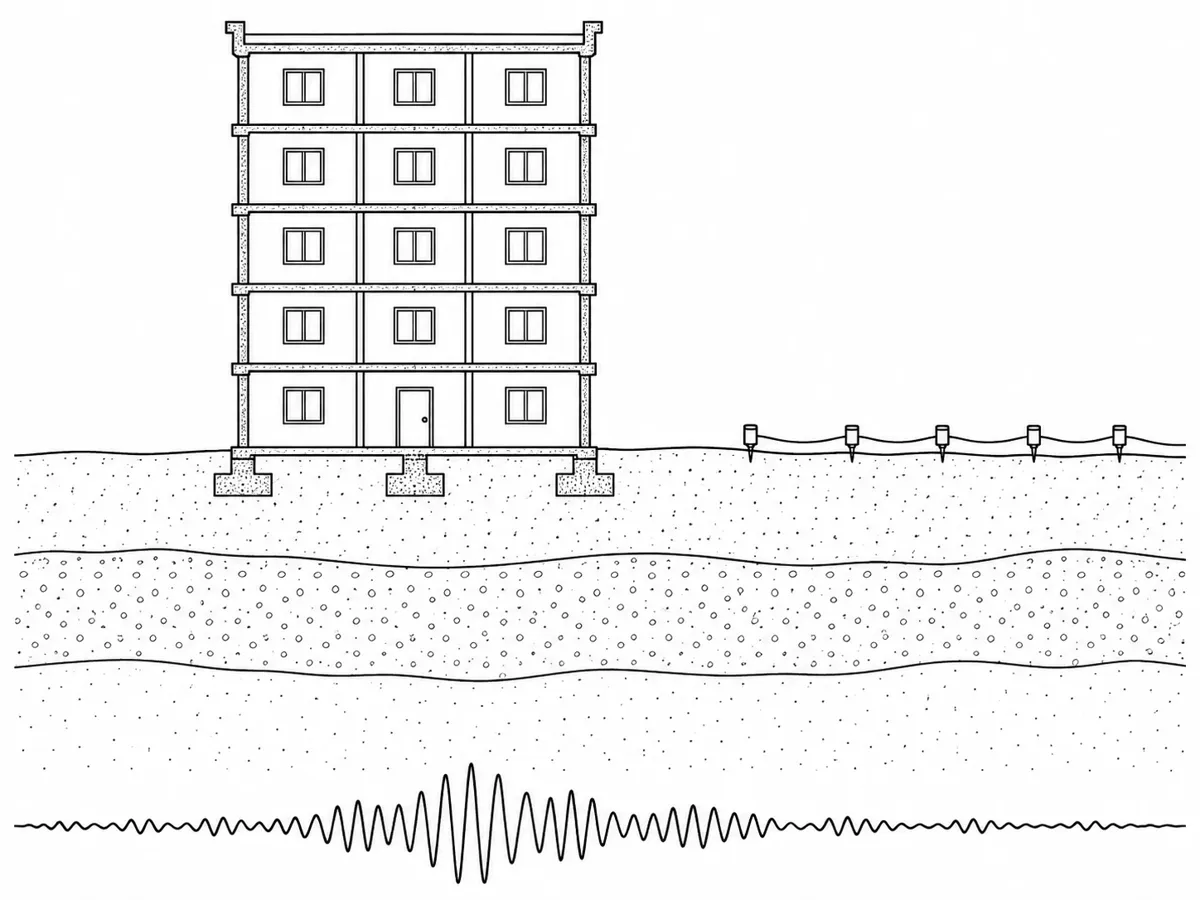
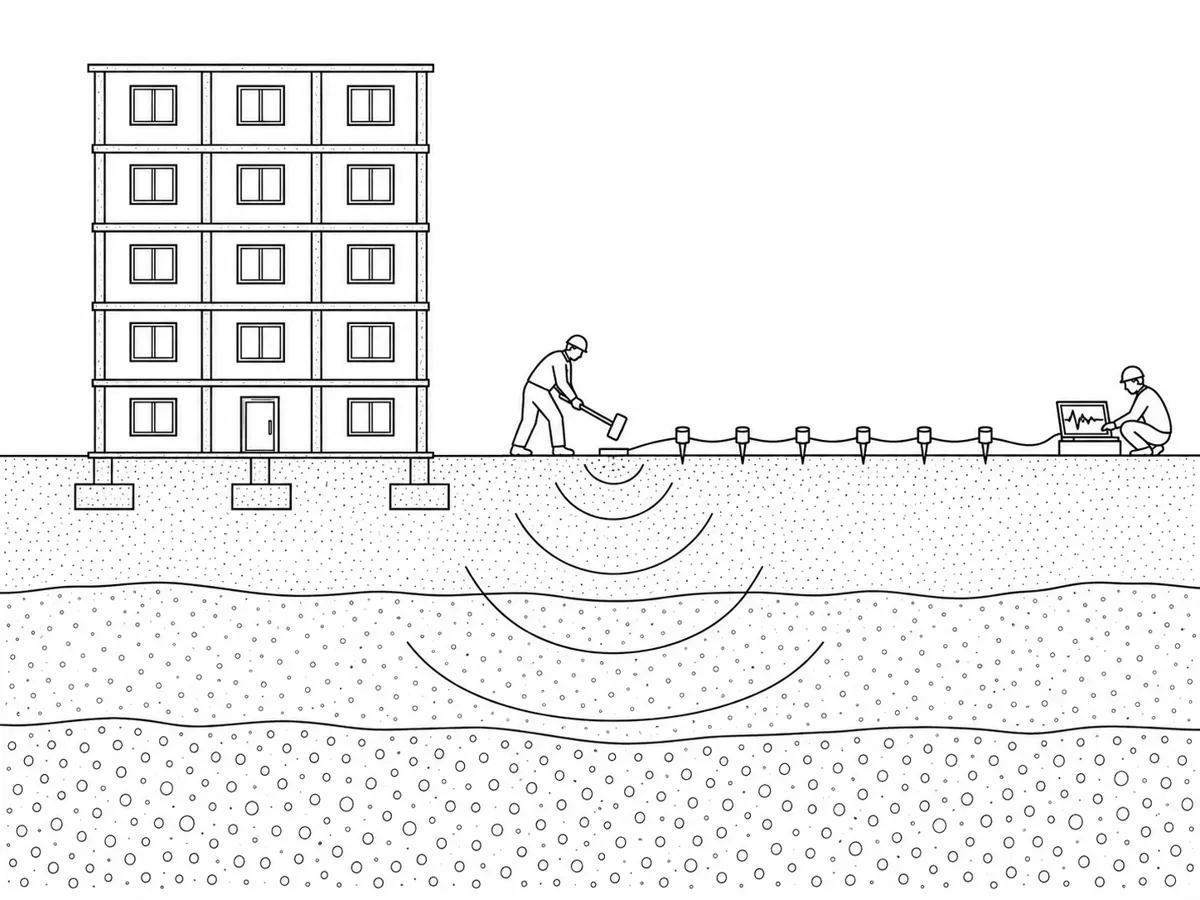
Zemin etüdü: the seismic survey drawn with the crew at work; title and sentence as Fırat wants

diff --git a/deprem-performans/index.html b/deprem-performans/index.html
@@ -57,7 +57,7 @@
     <div class="surec">
     <figure class="surec-stage" aria-label="Değerlendirme adımlarının çizimleri">
       <div class="surec-pic">
-      <img src="/assets/senkon/surec/01.webp?v=d8aeba35" alt="Zemin etüdü: bina kesiti, altındaki zemin tabakaları ve dalga kaydı" width="1200" height="900" loading="lazy">
+      <img src="/assets/senkon/surec/01.webp?v=c4b6e3c5" alt="Zemin etüdü: bina kesiti, zemin tabakaları ve çekiçle yapılan sismik serim" width="1200" height="900" loading="lazy">
       <img src="/assets/senkon/surec/02.webp?v=e7d75060" alt="Karot testi: kolona bağlı karot makinesi ve alınan silindir numune" width="1200" height="900" loading="lazy">
       <img src="/assets/senkon/surec/03.webp?v=2a6af28d" alt="Röntgen ve donatı okuması: kolonda tarama cihazı, açılan pas payında ölçülen donatı" width="1200" height="900" loading="lazy">
       <img src="/assets/senkon/surec/04.webp?v=a666c962" alt="Üç boyutlu analiz: binanın çubuk modeli ve altında deprem ivme kaydı" width="1200" height="900" loading="lazy">
@@ -67,7 +67,7 @@
       <div class="surec-ctrl"><button type="button" class="surec-prev">← Önceki</button><button type="button" class="surec-next">Sonraki →</button><span class="surec-bar"><i></i></span></div>
     </figure>
     <ol class="steps">
-      <li class="item"><span class="num" aria-hidden="true">01</span><h3>Sismik zemin etüdü</h3><p>Binanın oturduğu zemin incelenir; zeminin deprem dalgalarını nasıl büyüttüğü belirlenir.</p></li>
+      <li class="item"><span class="num" aria-hidden="true">01</span><h3>Zemin etüdü</h3><p>Bina çevresinde sismik serim (MASW) yapılır; zeminin dalga hızları ölçülür ve zeminin deprem dalgalarını nasıl büyüttüğü belirlenir. Varsa mevcut zemin raporu da kullanılır.</p></li>
       <li class="item"><span class="num" aria-hidden="true">02</span><h3>Karot testi</h3><p>Kolon ve perdelerden silindir beton numuneler alınır; betonun gerçek dayanımı laboratuvarda ölçülür.</p></li>
       <li class="item"><span class="num" aria-hidden="true">03</span><h3>Röntgen ve donatı okuması</h3><p>Betonu kırmadan, tarama cihazıyla donatının yeri ve aralığı belirlenir; seçilen noktalarda pas payı açılır, donatının çapı, adedi ve korozyon durumu yerinde görülür.</p></li>
       <li class="item"><span class="num" aria-hidden="true">04</span><h3>Üç boyutlu analiz</h3><p>Toplanan verilerle binanın 3B modeli kurulur; TBDY 2018 ve ASCE 41'e göre doğrusal olmayan analiz yapılır. Gerektiğinde 6 Şubat 2023 Kahramanmaraş depremleri gibi gerçek deprem kayıtları, sahanın deprem tehlikesine göre ölçeklenerek uygulanır.</p></li>

diff --git a/tests/perf-page.test.js b/tests/perf-page.test.js
@@ -17,7 +17,7 @@ test('the page has its own title, description and canonical address', () => {
 
 test('the six assessment steps, in order', () => {
   const steps = [...html.matchAll(/<li class="item"><span class="num"[^>]*>\d\d<\/span><h3>([^<]+)<\/h3>/g)].map(m => m[1]);
-  assert.deepEqual(steps, ['Sismik zemin etüdü', 'Karot testi', 'Röntgen ve donatı okuması', 'Üç boyutlu analiz', 'Deprem performansının belirlenmesi', 'Gerekirse, güçlendirme projesi']);
+  assert.deepEqual(steps, ['Zemin etüdü', 'Karot testi', 'Röntgen ve donatı okuması', 'Üç boyutlu analiz', 'Deprem performansının belirlenmesi', 'Gerekirse, güçlendirme projesi']);
 });
 
 test('the story figure: six pictures with alt text, in order, before the steps, plus the two buttons', () => {

diff --git a/docs/superpowers/specs/2026-10-13-surec-animasyon-design.md b/docs/superpowers/specs/2026-10-13-surec-animasyon-design.md
@@ -16,7 +16,7 @@ Titles are his; descriptions reuse the current sentences where they fit and are 
 
 | # | Title | Description (draft) |
 |---|---|---|
-| 01 | Sismik zemin etüdü | Binanın oturduğu zemin incelenir; zeminin deprem dalgalarını nasıl büyüttüğü belirlenir. |
+| 01 | Zemin etüdü | Binanın oturduğu zemin incelenir; zeminin deprem dalgalarını nasıl büyüttüğü belirlenir. |
 | 02 | Karot testi | Kolon ve perdelerden silindir beton numuneler alınır; betonun gerçek dayanımı laboratuvarda ölçülür. |
 | 03 | Röntgen ve donatı okuması | Betonu kırmadan, tarama cihazıyla donatının yeri ve aralığı belirlenir; seçilen noktalarda pas payı açılır, donatının çapı, adedi ve korozyon durumu yerinde görülür. |
 | 04 | Üç boyutlu analiz | Toplanan verilerle binanın 3B modeli kurulur; TBDY 2018 ve ASCE 41'e göre doğrusal olmayan analiz yapılır. Gerektiğinde 6 Şubat 2023 Kahramanmaraş depremleri gibi gerçek deprem kayıtları, sahanın deprem tehlikesine göre ölçeklenerek uygulanır. |

diff --git a/docs/superpowers/plans/2026-10-13-surec-animasyon.md b/docs/superpowers/plans/2026-10-13-surec-animasyon.md
@@ -14,7 +14,7 @@
 
 - No library, no build step; one script file, `defer`, like `assets/senkon/skyline.js`.
 - Pictures: `assets/senkon/surec/01.webp … 06.webp`, 1200×900 greyscale WebP quality 80, 60–90 KB each; no text or colour in them.
-- Step titles, in order: `Sismik zemin etüdü`, `Karot testi`, `Röntgen ve donatı okuması`, `Üç boyutlu analiz`, `Deprem performansının belirlenmesi`, `Gerekirse, güçlendirme projesi`. Never "performans düzeyi" in a title.
+- Step titles, in order: `Zemin etüdü`, `Karot testi`, `Röntgen ve donatı okuması`, `Üç boyutlu analiz`, `Deprem performansının belirlenmesi`, `Gerekirse, güçlendirme projesi`. Never "performans düzeyi" in a title.
 - Markup shape `li.item > span.num + h3 + p` stays (styles and `tests/perf-page.test.js` depend on it).
 - Timing: 5 s per frame, 0.6 s cross-fade, 6 % zoom per frame, 6 s resume delay after a touch.
 - Script exits early (static strip stays) without `IntersectionObserver` or with `prefers-reduced-motion: reduce`.
